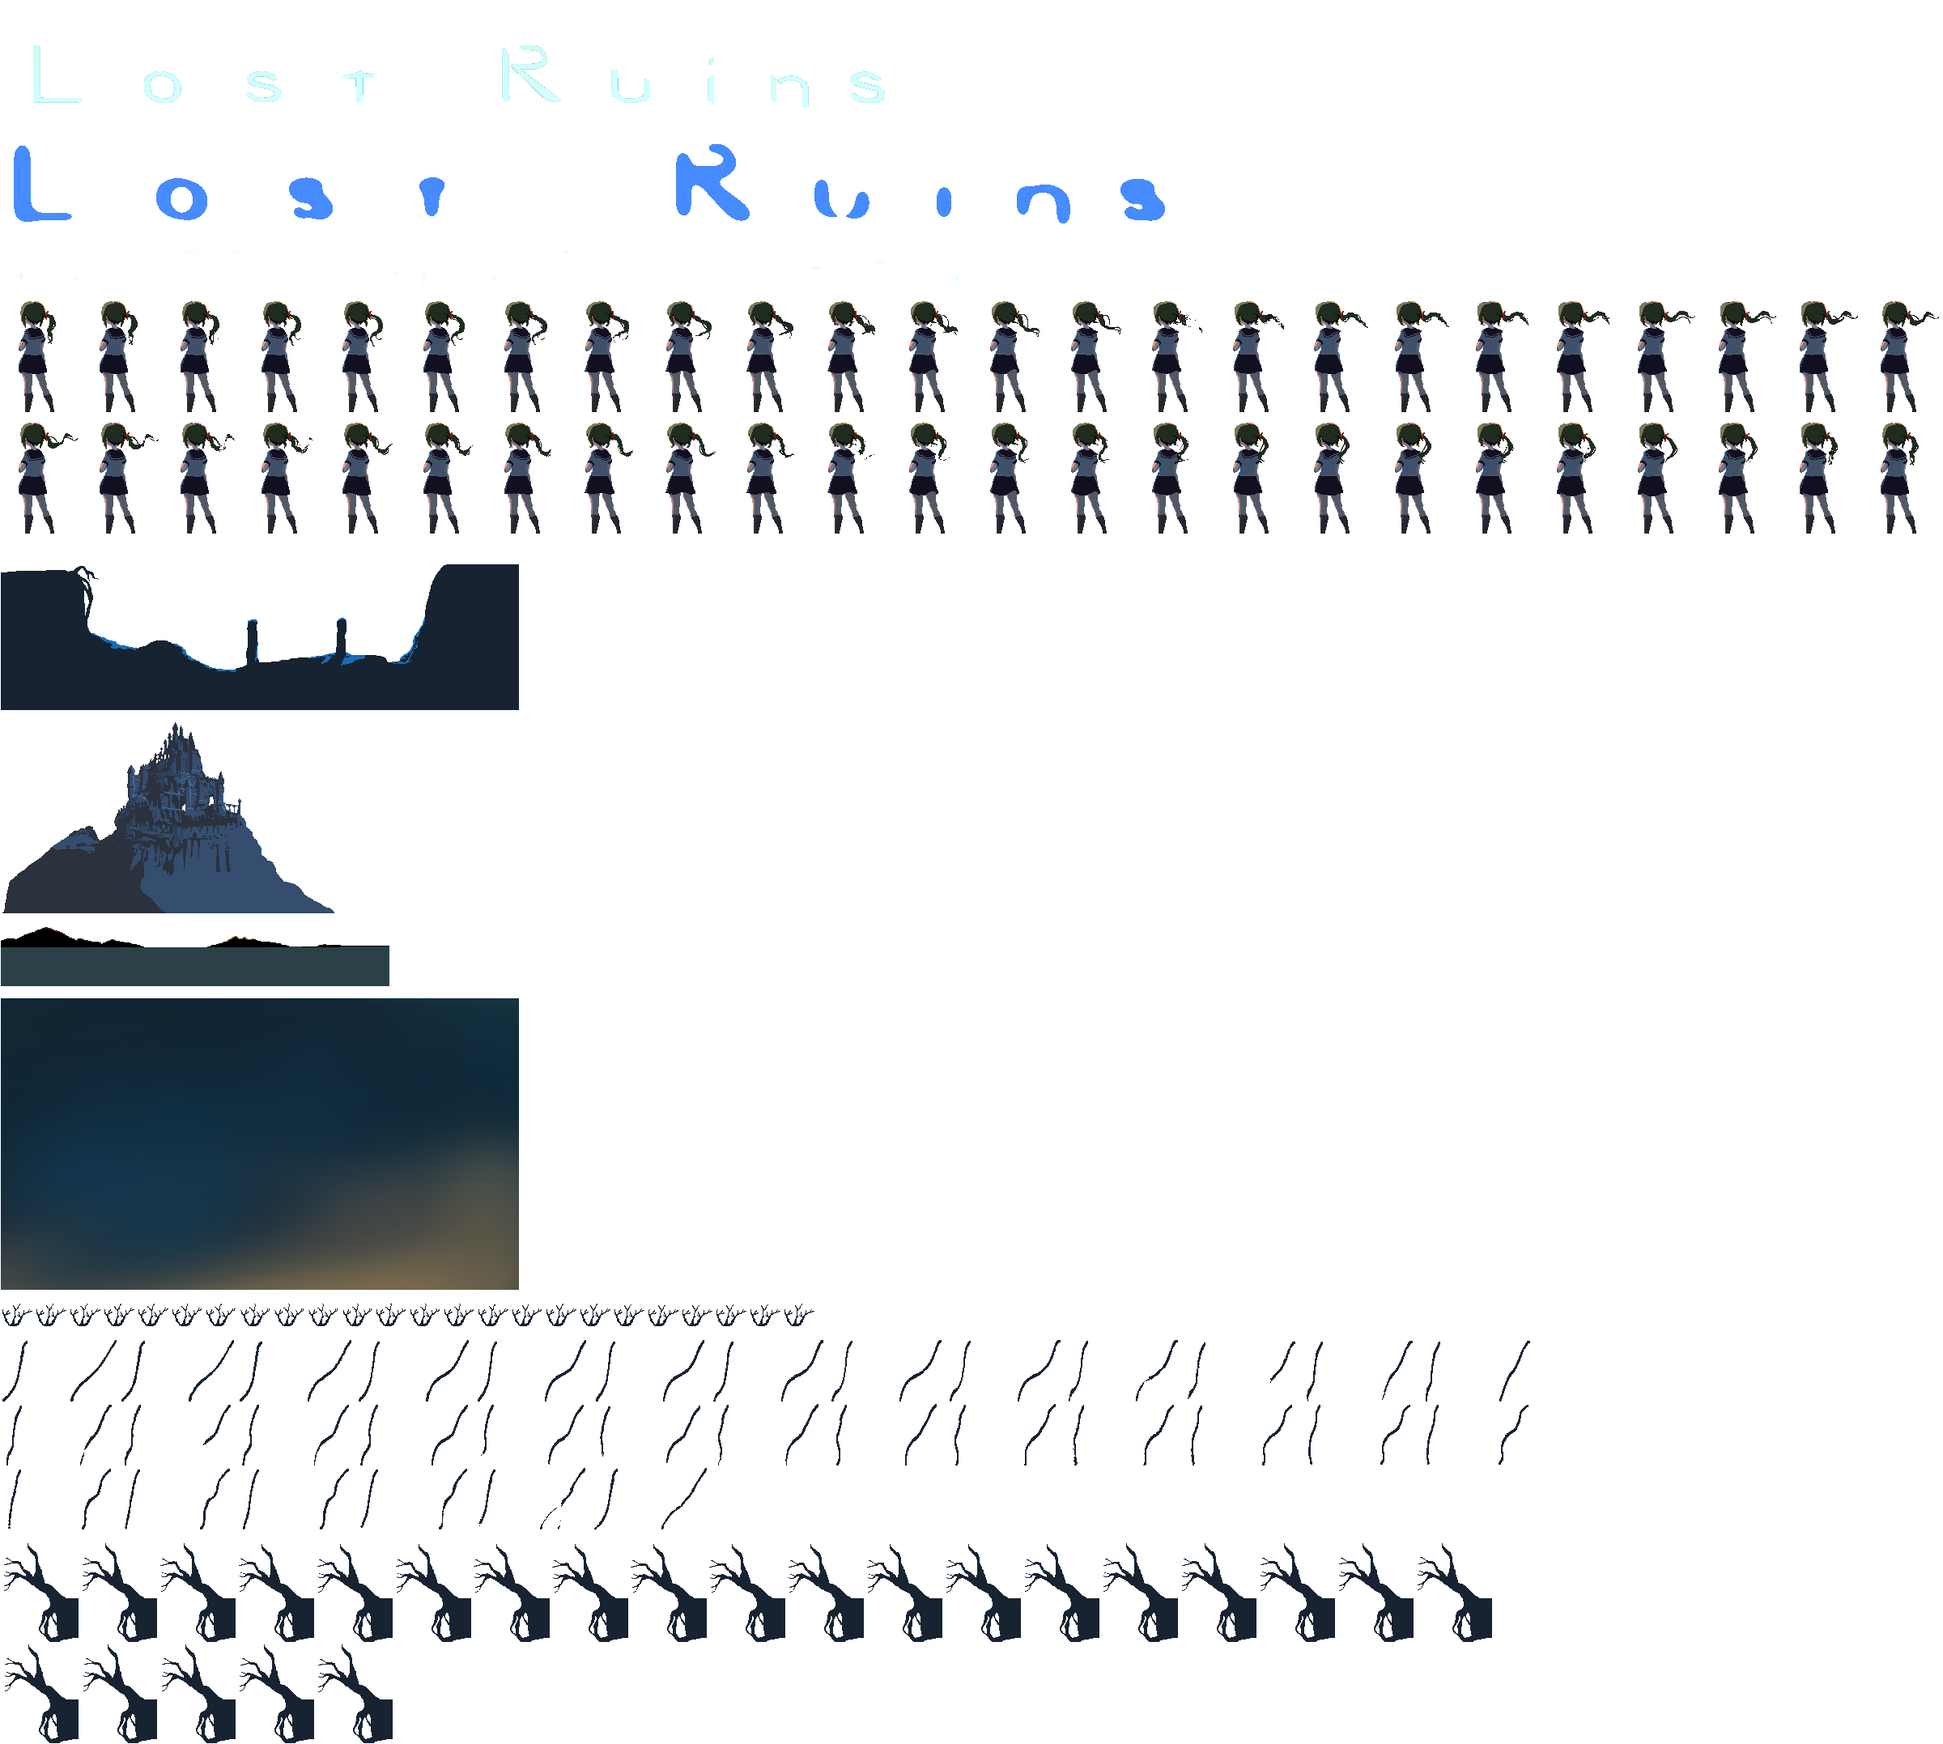
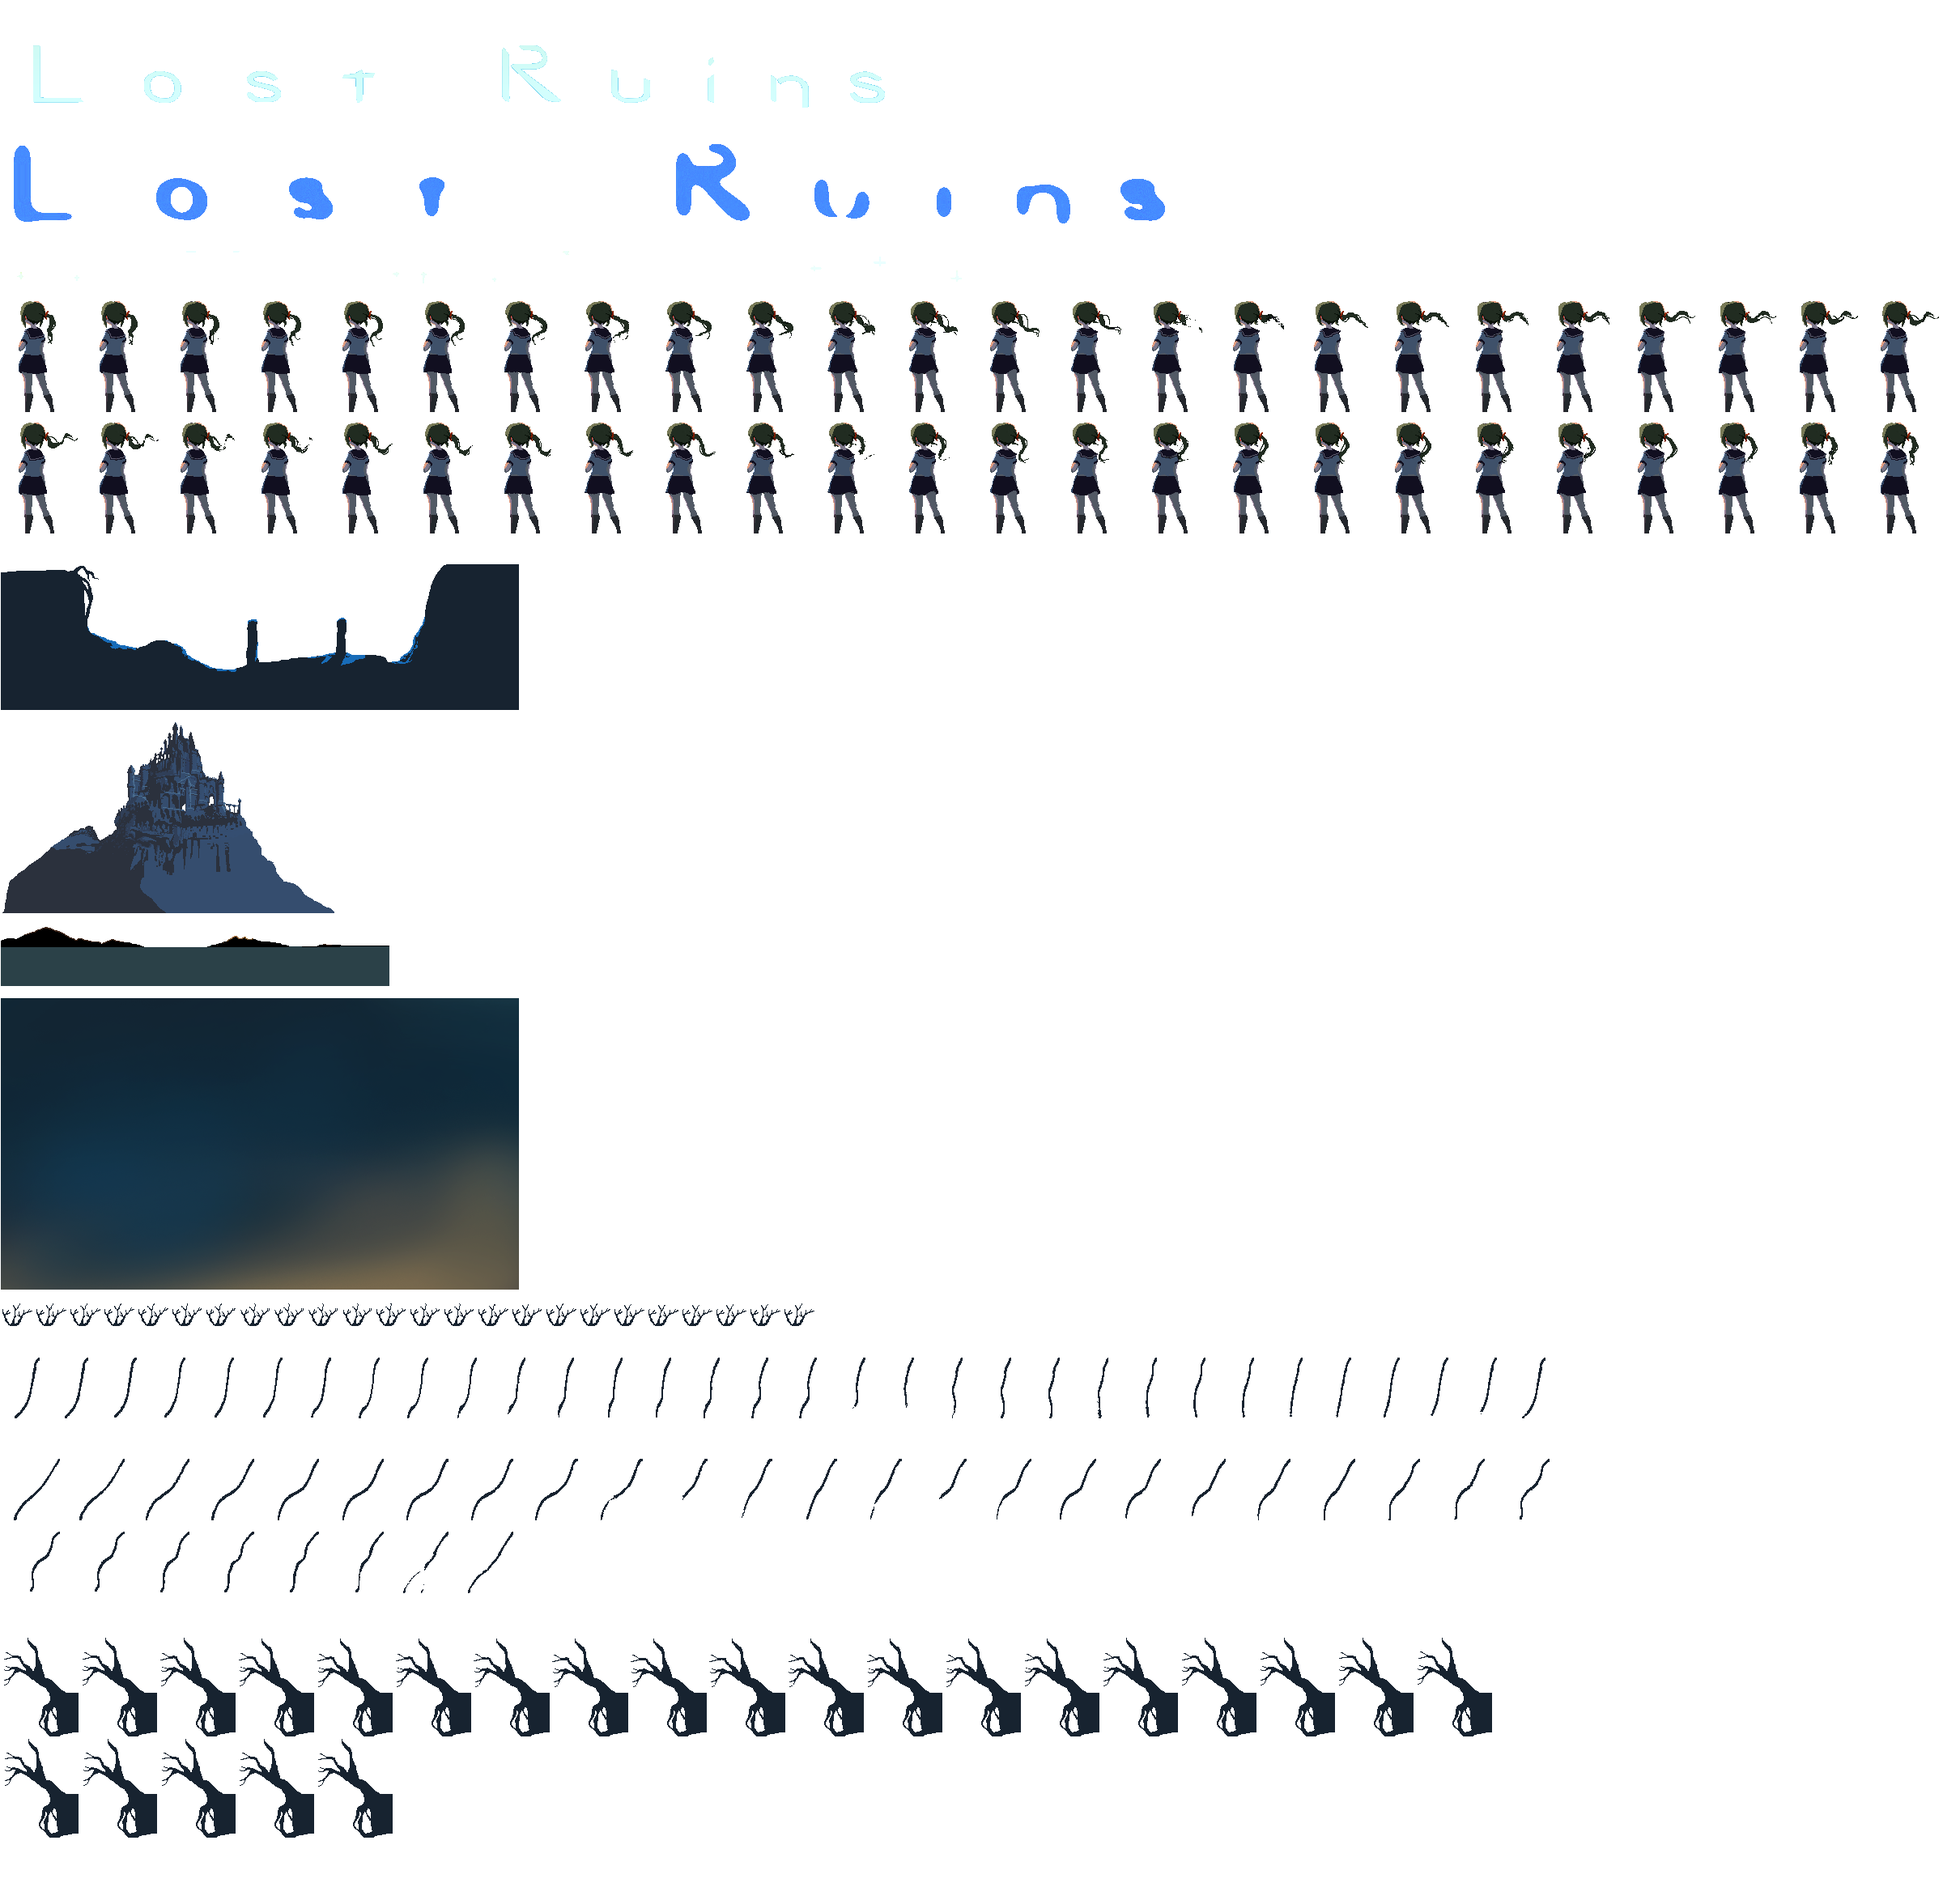
Fis TitleScene

diff --git a/LostRuins/LostRuins/FrameWork/Scene/TitleScene.cpp b/LostRuins/LostRuins/FrameWork/Scene/TitleScene.cpp
@@ -13,7 +13,7 @@ void TitleScene::Init(SceneManager* sceneManager)
 	sky.setTextureRect(IntRect(1, 1233, 640, 360));
 	sky.setScale(Vector2f(3.f, 3.f));
 	sky.setPosition(0, 0);
-	
+
 	backGround.setTexture(textureTitle);
 	backGround.setTextureRect(IntRect(1, 1145, 480, 73));
 	backGround.setOrigin(240, 73);
@@ -49,11 +49,20 @@ void TitleScene::Init(SceneManager* sceneManager)
 	heroine.setOrigin(0, 137);
 	heroine.setPosition(resolution.x * 0.7f, resolution.y + 30);
 	heroine.setScale(3.5f, 3.5f);
-	AnimationInit(animation1, &heroine);
-	animation1.Play("heroine");
+	AnimationInit(aniHeroine, &heroine);
+	aniHeroine.Play("heroine");
 
-	rofe1.Init();
-	rofe2.Init();
+	rope1.setOrigin(0.f, 60.f);
+	rope1.setPosition(resolution.x * 0.5f - 230.f, resolution.y * 0.5f + 400.f);
+	rope1.setScale(3.5f, 3.5f);
+	AnimationInit(aniRope1, &rope1);
+	aniRope1.Play("rope1");
+
+	rope2.setOrigin(0.f, 80.f);
+	rope2.setPosition(resolution.x * 0.5f + 130.f, resolution.y * 0.5f + 480.f);
+	rope2.setScale(3.5f, 3.5f);
+	AnimationInit(aniRope2, &rope2);
+	aniRope2.Play("rope2");
 
 	backGroundSound.setBuffer(soundHlr.GetBuffer("sound/back_ground_sound.wav"));
 	backGroundSound.play();
@@ -61,10 +70,9 @@ void TitleScene::Init(SceneManager* sceneManager)
 
 void TitleScene::Update(float dt, Time playTime, RenderWindow* window, View* mainView, View* uiView)
 {
-	animation1.SetSpeed(3.5f);
-	animation1.Update(dt);
-	rofe1.Update(dt);
-	rofe2.Update(dt);
+	aniHeroine.Update(dt);
+	aniRope1.Update(dt);
+	aniRope2.Update(dt);
 	this->uiView = uiView;
 }
 
@@ -75,11 +83,11 @@ void TitleScene::Draw(RenderWindow* window, View* mainView)
 	window->draw(backGround);
 	window->draw(midGround);
 	window->draw(title);
+	window->draw(rope1);
+	window->draw(rope2);
 	window->draw(ForeGround);
 	window->draw(heroine);
 	window->draw(topBar);
-	rofe1.Draw(window);
-	rofe2.Draw(window);
 	window->draw(bottomBar);
 }
 
@@ -91,8 +99,8 @@ TitleScene::~TitleScene()
 void TitleScene::AnimationInit(AnimationController& animation, Sprite* sprite)
 {
 	animation.SetTarget(sprite);
-	
-	rapidcsv::Document clips("data_tables/animations/title/Title_animation_clips1.csv");
+
+	rapidcsv::Document clips("data_tables/animations/title/Title_animation_clips.csv");
 	std::vector<std::string> colId = clips.GetColumn<std::string>("ID");
 	std::vector<int> colFps = clips.GetColumn<int>("FPS");
 	std::vector<int> colLoop = clips.GetColumn<int>("LOOP TYPE(0:Single, 1:Loop)");

diff --git a/LostRuins/LostRuins/FrameWork/Scene/TitleScene.h b/LostRuins/LostRuins/FrameWork/Scene/TitleScene.h
@@ -18,7 +18,9 @@ private:
 
 	Vector2i resolution;
 
-	AnimationController animation1;
+	AnimationController aniHeroine;
+	AnimationController aniRope1;
+	AnimationController aniRope2;
 
 	Texture textureTitle;
 
@@ -28,12 +30,11 @@ private:
 	Sprite title;
 	Sprite ForeGround;
 	Sprite heroine;
+	Sprite rope1;
+	Sprite rope2;
 
 	RectangleShape topBar;
 	RectangleShape bottomBar;
-
-	Rofe1 rofe1;
-	Rofe2 rofe2;
 
 	SoundHolder soundHlr;
 	Sound backGroundSound;
